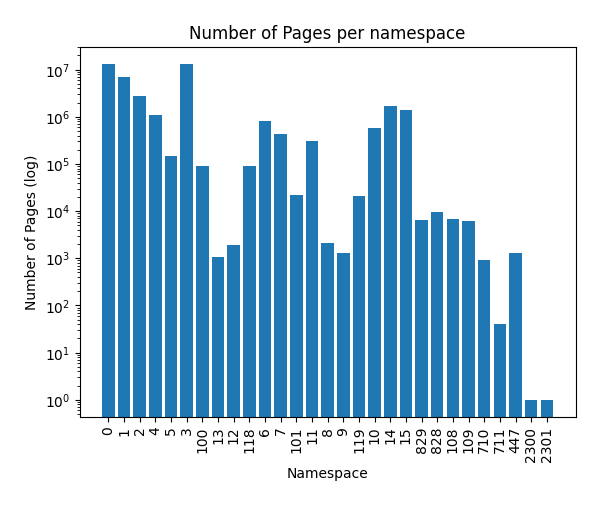
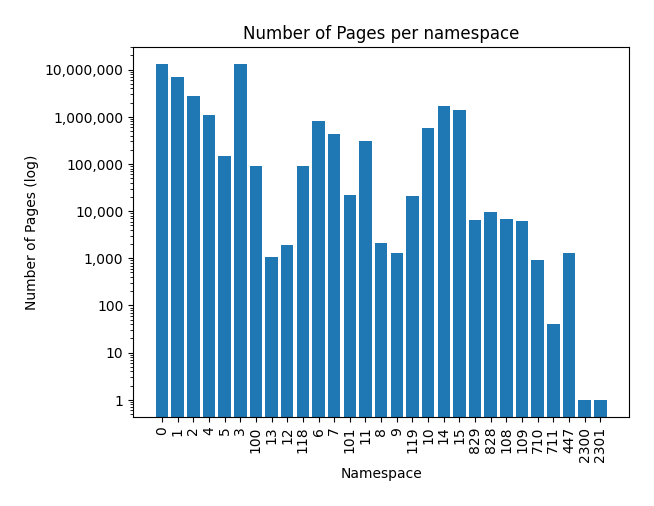
add plot of how many users per user group

diff --git a/nsdb/plot.py b/nsdb/plot.py
@@ -132,16 +132,18 @@ def numberOfPagesPerNamespace(cursor, i, plotDir, dataDir, dryrun):
             ("2301", 1),
         ]
 
-    plt.title("Number of Pages per namespace")
-    plt.xticks(rotation=90)
-    plt.xlabel("Namespace")
-    plt.ylabel("Number of Pages (log)")
-    plt.yscale("log")
-    plt.bar(*zip(*data))
+    fig, ax = plt.subplots()  # Create a figure and an axes.
+    ax.bar(*zip(*data))
+    ax.set_xlabel("Namespace")  # Add an x-label to the axes.
+    ax.set_ylabel("Number of Pages (log)")  # Add a y-label to the axes.
+    ax.set_yscale("log")
+    ax.set_title("Number of Pages per namespace")  # Add a title to the axes.
+    ax.tick_params(axis="x", labelrotation=90)
+    ax.yaxis.set_major_formatter(tkr.FuncFormatter(threeFigureFormatter))
     plt.savefig(figname + "-log", bbox_inches="tight", pad_inches=0.25)
 
-    plt.ylabel("Number of Pages (linear)")
-    plt.yscale("linear")
+    ax.set_ylabel("Number of Pages (linear)")
+    ax.set_yscale("linear")
     plt.bar(*zip(*data))
     plt.savefig(figname + "-linear", bbox_inches="tight", pad_inches=0.25)
 
@@ -272,14 +274,6 @@ def numMainTalkEditsForBiggestIPs(cursor, i, plotDir, dataDir):
 
 
 def distributionOfMainEditsUserBots(cursor, i, plotDir, dataDir, dryrun=False):
-    def formatter(x, pos):  # formatter function takes tick label and tick position
-        s = "%d" % x
-        groups = []
-        while s and s[-1].isdigit():
-            groups.append(s[-3:])
-            s = s[:-3]
-        return s + ",".join(reversed(groups))
-
     figname = plotDir + str(i)
     plt.figure()
 
@@ -405,7 +399,7 @@ def distributionOfMainEditsUserBots(cursor, i, plotDir, dataDir, dryrun=False):
         talkspaceBlockedData = [154838, 6404, 8635, 3173, 783]
 
     fig, axs = plt.subplots(2, 3)
-    threeFigures = tkr.FuncFormatter(formatter)
+    threeFigures = tkr.FuncFormatter(threeFigureFormatter)
     fig.suptitle("Distribution of edits across name spaces for bots and users")
     axs[0, 0].set_title("user edits in main space")
     axs[0, 0].bar(columns, mainspaceUserData)
@@ -1392,6 +1386,79 @@ def internalExternalLinks(cursor, i, plotDir, dataDir, dryrun):
     plt.savefig(figname, bbox_inches="tight", pad_inches=0.25)
 
 
+def specialUsers(cursor, i, plotDir, dataDir, dryrun):
+    figname = plotDir + str(i)
+    plt.figure()
+
+    query = """SELECT ug_group, count(ug_user)
+    AS 'count'
+    FROM user_groups
+    GROUP BY ug_group;"""
+    if not dryrun:
+        cursor.execute(query,)
+        data = cursor.fetchall()
+        data = list(map(lambda x: (str(x[0]), x[1]), data))
+
+        with open(dataDir + str(i) + ".txt", "w") as file:
+            file.write(str(data))
+    else:
+        data = [
+            ("abusefilter", 150),
+            ("abusefilter-helper", 19),
+            ("accountcreator", 35),
+            ("autoreviewer", 4092),
+            ("bot", 309),
+            ("bureaucrat", 19),
+            ("checkuser", 43),
+            ("confirmed", 428),
+            ("copyviobot", 1),
+            ("epadmin", 2),
+            ("eventcoordinator", 131),
+            ("extendedconfirmed", 50792),
+            ("extendedmover", 309),
+            ("filemover", 403),
+            ("flow-bot", 1),
+            ("founder", 1),
+            ("import", 2),
+            ("interface-admin", 11),
+            ("ipblock-exempt", 418),
+            ("massmessage-sender", 59),
+            ("oversight", 45),
+            ("patroller", 724),
+            ("researcher", 3),
+            ("reviewer", 7370),
+            ("rollbacker", 6281),
+            ("sysop", 1140),
+            ("templateeditor", 184),
+        ]
+
+    fig, ax = plt.subplots()  # Create a figure and an axes.
+    ax.bar(*zip(*data))
+    ax.set_xlabel("User groups")  # Add an x-label to the axes.
+    ax.set_ylabel("Number of Users (log)")  # Add a y-label to the axes.
+    ax.set_yscale("log")
+    ax.set_title("Number of Users per User Group")  # Add a title to the axes.
+    ax.tick_params(axis="x", labelrotation=90)
+    ax.yaxis.set_major_formatter(tkr.FuncFormatter(threeFigureFormatter))
+    plt.savefig(figname + "-log", bbox_inches="tight", pad_inches=0.25)
+
+    ax.set_ylabel("Number of Users (linear)")
+    ax.set_yscale("linear")
+    plt.bar(*zip(*data))
+    plt.savefig(figname + "-linear", bbox_inches="tight", pad_inches=0.25)
+
+
+def threeFigureFormatter(
+    x, pos
+):  # formatter function takes tick label and tick position
+    s = "%d" % x
+    groups = []
+    while s and s[-1].isdigit():
+        groups.append(s[-3:])
+        s = s[:-3]
+    return s + ",".join(reversed(groups))
+
+
 def plot(plotDir: str = "../plots/", dryrun=False):
     """A function"""
     if not os.path.exists(plotDir):
@@ -1420,7 +1487,7 @@ def plot(plotDir: str = "../plots/", dryrun=False):
 
     # 3
     i = i + 1
-    # numberOfPagesPerNamespace(cursor, i, plotDir, dataDir, dryrun)
+    numberOfPagesPerNamespace(cursor, i, plotDir, dataDir, dryrun)
 
     # 4
     i = i + 1
@@ -1477,6 +1544,10 @@ def plot(plotDir: str = "../plots/", dryrun=False):
     # 17
     i = i + 1
     # internalExternalLinks(cursor, i, plotDir, dataDir, dryrun)
+
+    # 18
+    i = i + 1
+    # specialUsers(cursor, i, plotDir, dataDir, dryrun)
 
     if not dryrun:
         cursor.close()
